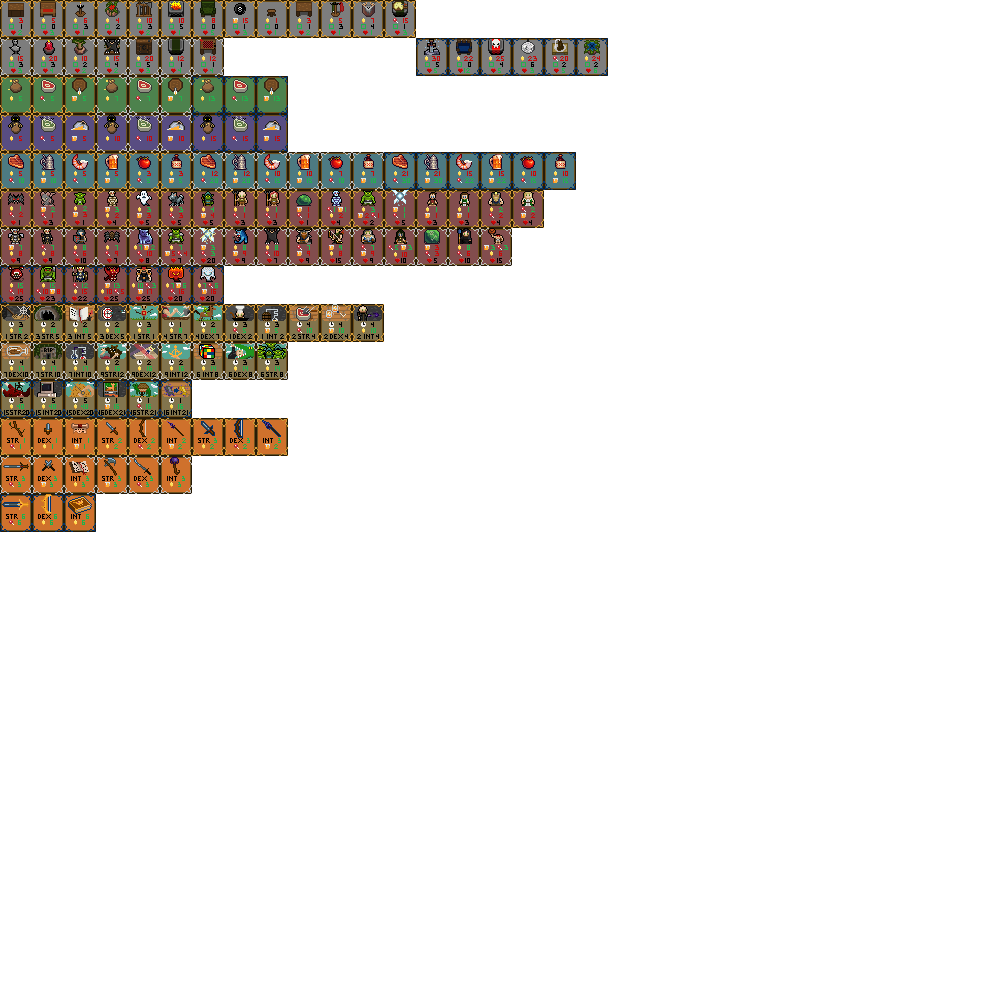
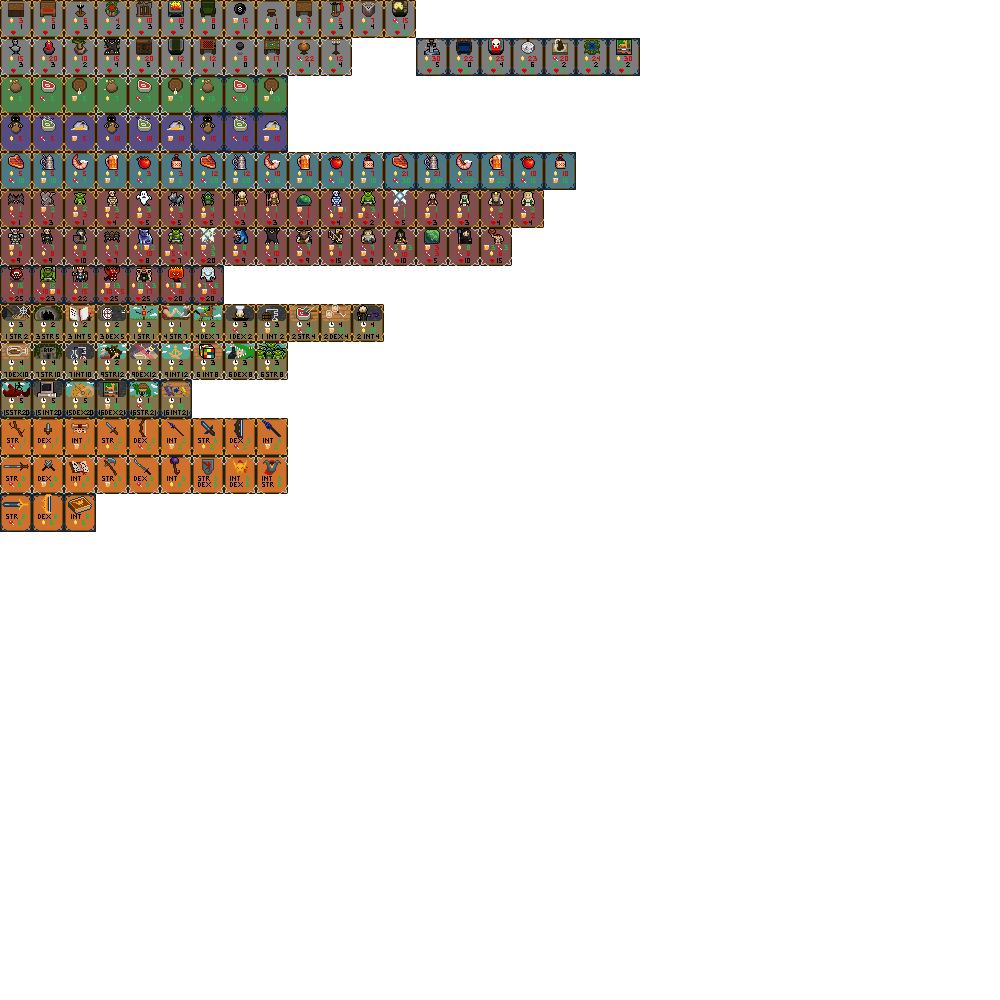
Added 5 new objects and 3 new items.

Changed region(s): [[0.217, 0.031, 0.372, 0.093], [0.186, 0.434, 0.31, 0.496], [0.589, 0.031, 0.651, 0.093]]

diff --git a/db.js b/db.js
@@ -19,12 +19,17 @@ var OBJECTSPRITES = {
     "portapotty" : new Vector2D(4,1),
     "stonetable" : new Vector2D(5,1),
     "gametable" : new Vector2D(6,1),
+    "fancystool" : new Vector2D(7,1),
+    "foosballtable" : new Vector2D(8,1),
+    "onionringtower" : new Vector2D(9,1),
+    "candles" : new Vector2D(10,1),
     "swordinstone" : new Vector2D(13,1),
     "kingschair" : new Vector2D(14,1),
     "darkskull" : new Vector2D(15,1),
     "discoball" : new Vector2D(16,1),
     "chocolatefountain" : new Vector2D(17,1),
-    "magicflower" : new Vector2D(18,1)
+    "magicflower" : new Vector2D(18,1),
+    "buckhunter" : new Vector2D(19,1)
 }
 
 var BUFFCURSESPRITES = {
@@ -159,6 +164,9 @@ var ITEMCARDSPRITES = {
     "battleaxe" : new Vector2D(3,12),
     "katana" : new Vector2D(4,12),
     "scepter" : new Vector2D(5,12),
+    "shield" : new Vector2D(6,12),
+    "visor" : new Vector2D(7,12),
+    "cuirass" : new Vector2D(8,12),
     "justicebringer" : new Vector2D(0,13),
     "trueaim" : new Vector2D(1,13),
     "monsterbook" : new Vector2D(2,13)
@@ -494,7 +502,7 @@ class Database
                                             OBJECTSPRITES["jackalope"].x, OBJECTSPRITES["jackalope"].y, 1, 4, false, undefined,
                                             new ResourceUpkeep(this.gold, -7), "Mounted Jackalope Head"));
         this.objectCardsCommon.push(new ObjectCard(OBJECTSPRITES["cheese"].x, OBJECTSPRITES["cheese"].y,
-                                            OBJECTSPRITES["cheese"].x, OBJECTSPRITES["cheese"].y, 3, 1, true, undefined,
+                                            OBJECTSPRITES["cheese"].x, OBJECTSPRITES["cheese"].y, 3, 1, false, undefined,
                                             new ResourceUpkeep(this.food, -15), "Gourmet Cheese Wheel"));
 
         this.objectCardsUncommon.push(new ObjectCard(OBJECTSPRITES["bust"].x, OBJECTSPRITES["bust"].y,
@@ -518,6 +526,18 @@ class Database
         this.objectCardsUncommon.push(new ObjectCard(OBJECTSPRITES["gametable"].x, OBJECTSPRITES["gametable"].y,
                                             OBJECTSPRITES["gametable"].x, OBJECTSPRITES["gametable"].y, 4, 1, false, undefined,
                                             new ResourceUpkeep(this.gold, -12), "Board Game Table"));
+        this.objectCardsUncommon.push(new ObjectCard(OBJECTSPRITES["fancystool"].x, OBJECTSPRITES["fancystool"].y,
+                                            OBJECTSPRITES["fancystool"].x, OBJECTSPRITES["fancystool"].y, 4, 0, true, undefined,
+                                            new ResourceUpkeep(this.gold, -6), "Fancy Stool"));
+        this.objectCardsUncommon.push(new ObjectCard(OBJECTSPRITES["foosballtable"].x, OBJECTSPRITES["foosballtable"].y,
+                                            OBJECTSPRITES["foosballtable"].x, OBJECTSPRITES["foosballtable"].y, 6, 1, false, undefined,
+                                            new ResourceUpkeep(this.gold, -17), "Foosball Table"));
+        this.objectCardsUncommon.push(new ObjectCard(OBJECTSPRITES["onionringtower"].x, OBJECTSPRITES["onionringtower"].y,
+                                            OBJECTSPRITES["onionringtower"].x, OBJECTSPRITES["onionringtower"].y, 6, 1, false, undefined,
+                                            new ResourceUpkeep(this.food, -22), "Onion Ring Tower"));
+        this.objectCardsUncommon.push(new ObjectCard(OBJECTSPRITES["candles"].x, OBJECTSPRITES["candles"].y,
+                                            OBJECTSPRITES["candles"].x, OBJECTSPRITES["candles"].y, 2, 4, false, LIGHTCOLOR,
+                                            new ResourceUpkeep(this.gold, -12), "Raised Candles"));
 
         this.objectCardsRare.push(new ObjectCard(OBJECTSPRITES["swordinstone"].x, OBJECTSPRITES["swordinstone"].y,
                                             OBJECTSPRITES["swordinstone"].x, OBJECTSPRITES["swordinstone"].y, 5, 5, false, undefined,
@@ -537,6 +557,9 @@ class Database
         this.objectCardsRare.push(new ObjectCard(OBJECTSPRITES["magicflower"].x, OBJECTSPRITES["magicflower"].y,
                                             OBJECTSPRITES["magicflower"].x, OBJECTSPRITES["magicflower"].y, 6, 2, false, undefined,
                                             new ResourceUpkeep(this.gold, -24), "Magic Flower"));
+        this.objectCardsRare.push(new ObjectCard(OBJECTSPRITES["buckhunter"].x, OBJECTSPRITES["buckhunter"].y,
+                                            OBJECTSPRITES["buckhunter"].x, OBJECTSPRITES["buckhunter"].y, 8, 2, false, "#f2f2d098",
+                                            new ResourceUpkeep(this.gold, -30), "Buck Hunter Game Cabinet"));
     }
 
     LoadbuffCardsCommon()
@@ -932,6 +955,15 @@ class Database
         this.itemCardsUncommon.push(new ItemCard(ITEMCARDSPRITES["scepter"].x, ITEMCARDSPRITES["scepter"].y,
                                     ITEMCARDSPRITES["scepter"].x, ITEMCARDSPRITES["scepter"].y,
                                     new CharacterStats(3,0,0), [new ResourceUpkeep(this.gold, 3)],4,"Scepter"));
+        this.itemCardsUncommon.push(new ItemCard(ITEMCARDSPRITES["shield"].x, ITEMCARDSPRITES["shield"].y,
+                                    ITEMCARDSPRITES["shield"].x, ITEMCARDSPRITES["shield"].y,
+                                    new CharacterStats(0,3,3), [],4,"Centurion's Shield"));
+        this.itemCardsUncommon.push(new ItemCard(ITEMCARDSPRITES["visor"].x, ITEMCARDSPRITES["visor"].y,
+                                    ITEMCARDSPRITES["visor"].x, ITEMCARDSPRITES["visor"].y,
+                                    new CharacterStats(3,0,3), [],4,"Centurion's Visor"));
+        this.itemCardsUncommon.push(new ItemCard(ITEMCARDSPRITES["cuirass"].x, ITEMCARDSPRITES["cuirass"].y,
+                                    ITEMCARDSPRITES["cuirass"].x, ITEMCARDSPRITES["cuirass"].y,
+                                    new CharacterStats(3,3,0), [],4,"Centurion's Cuirass"));
 
         this.itemCardsUncommon.push(new ItemCard(ITEMCARDSPRITES["justicebringer"].x, ITEMCARDSPRITES["justicebringer"].y,
                                     ITEMCARDSPRITES["justicebringer"].x, ITEMCARDSPRITES["justicebringer"].y,
